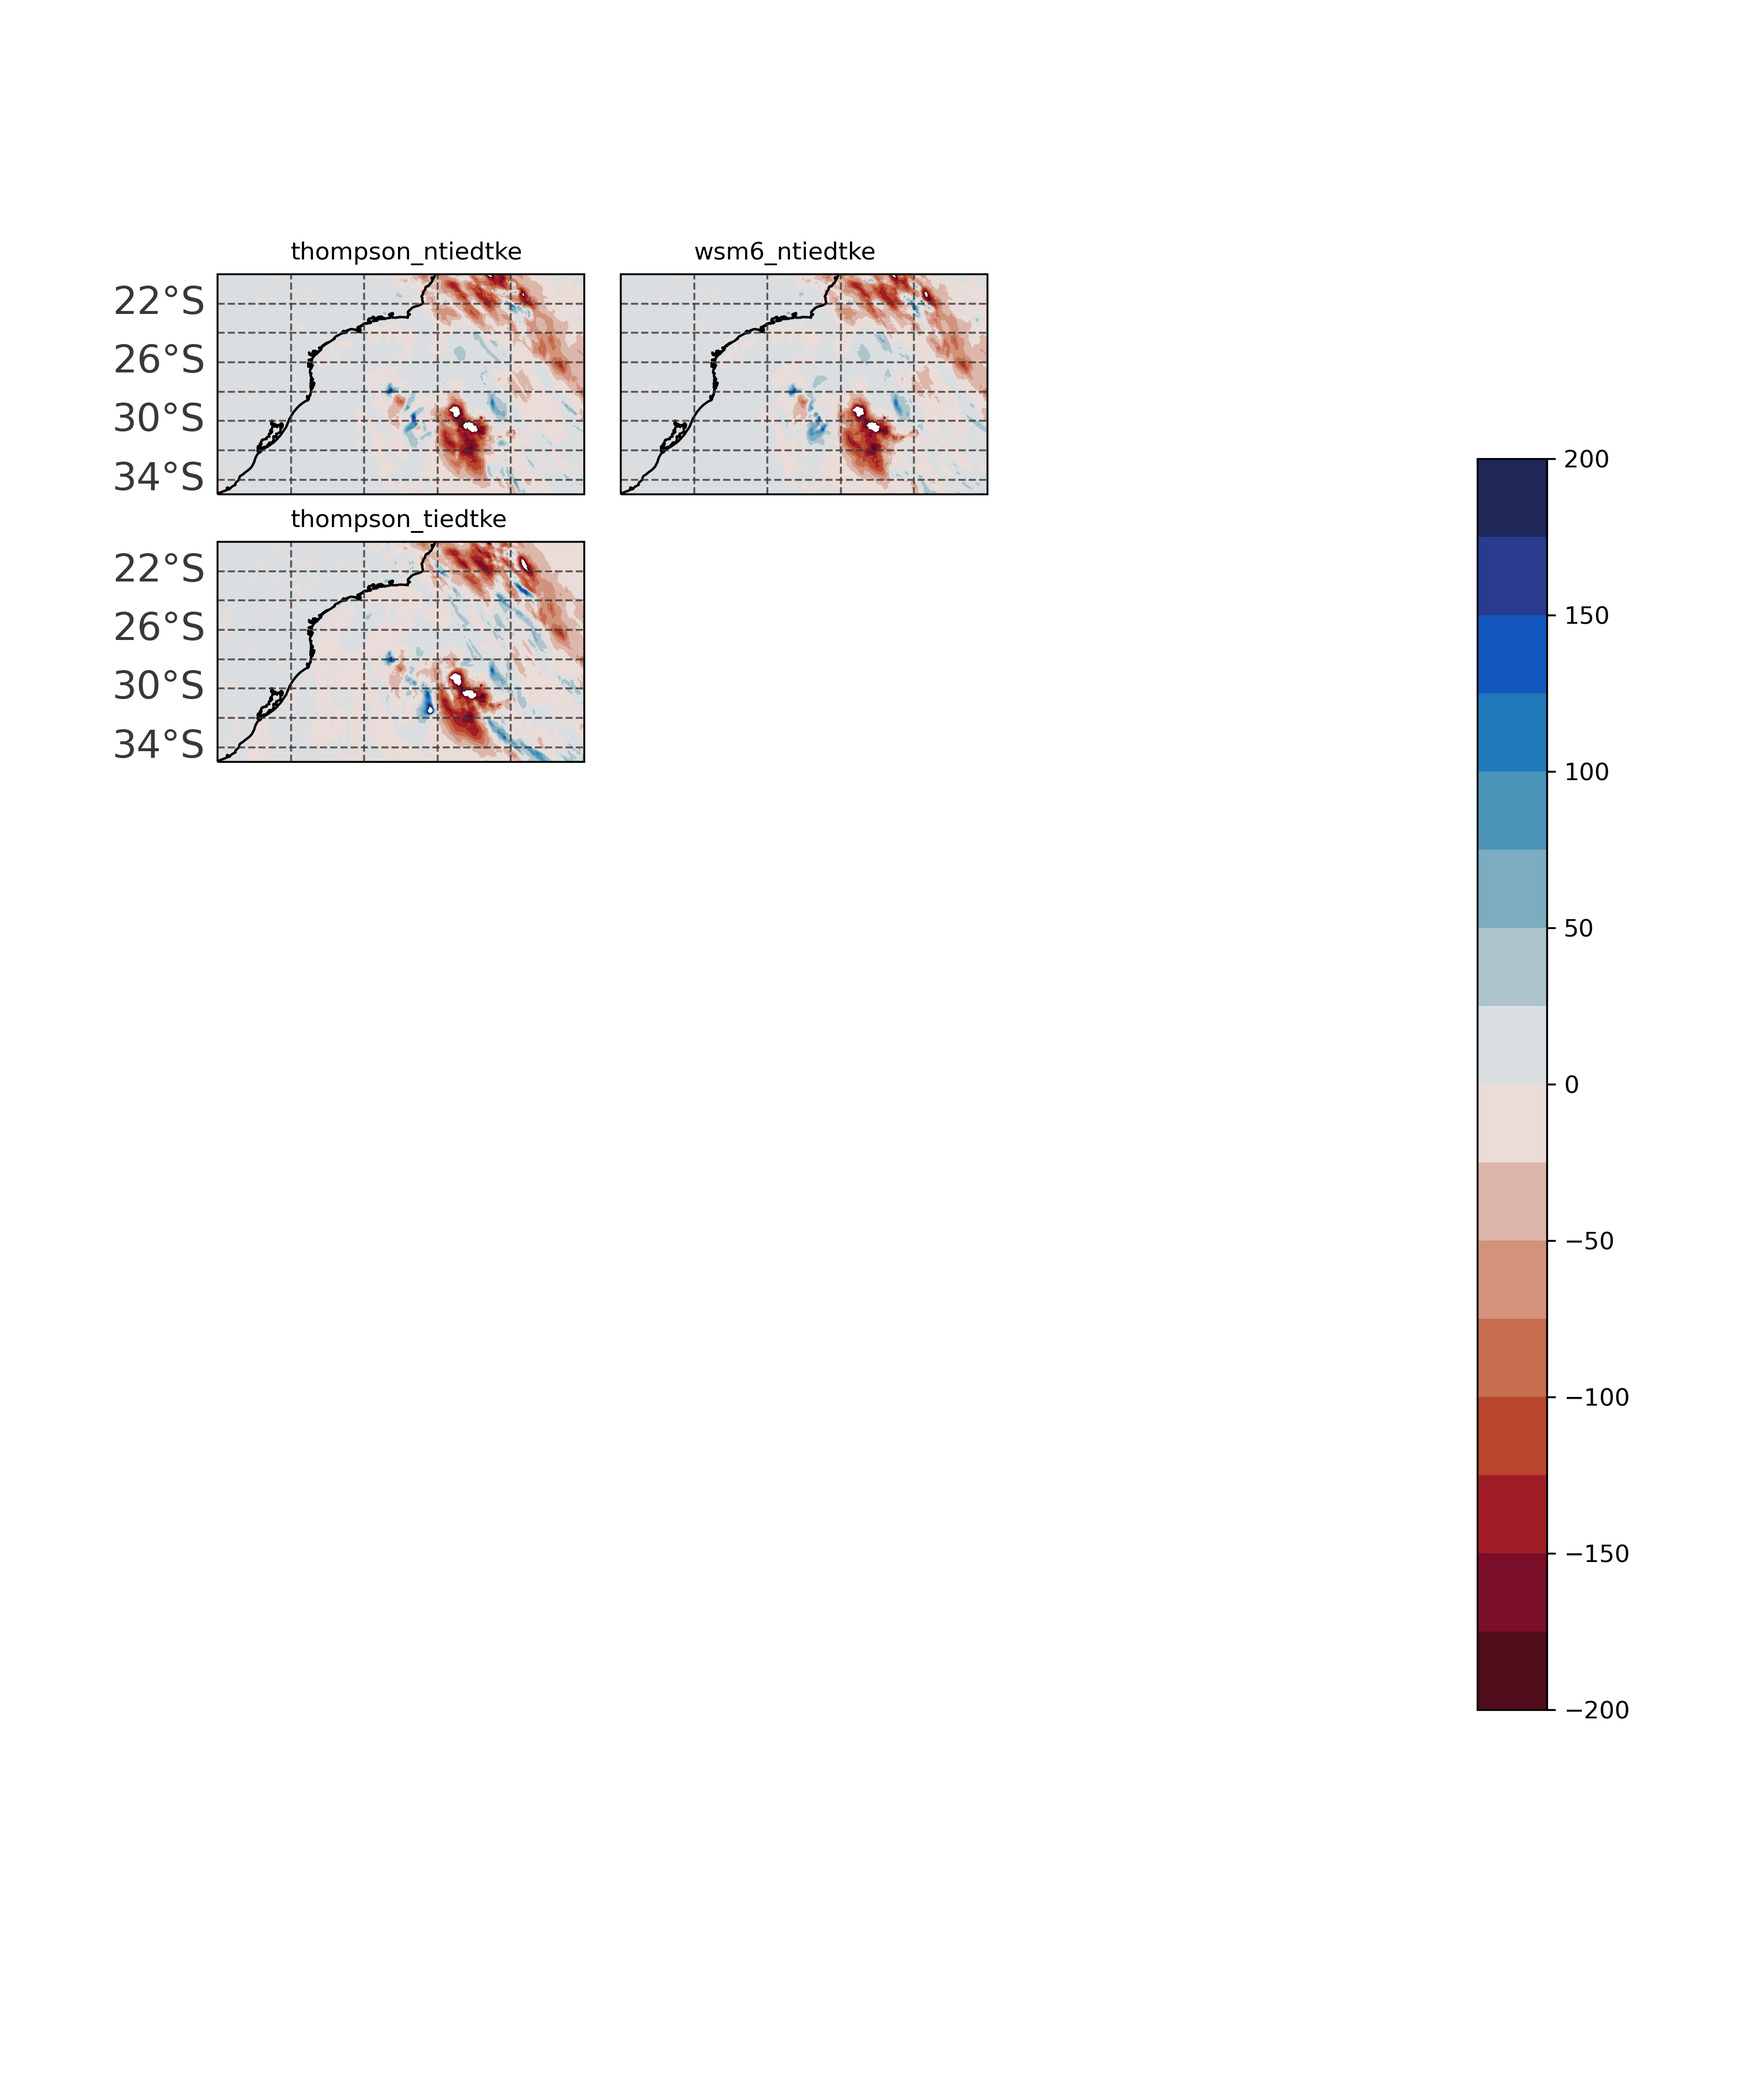
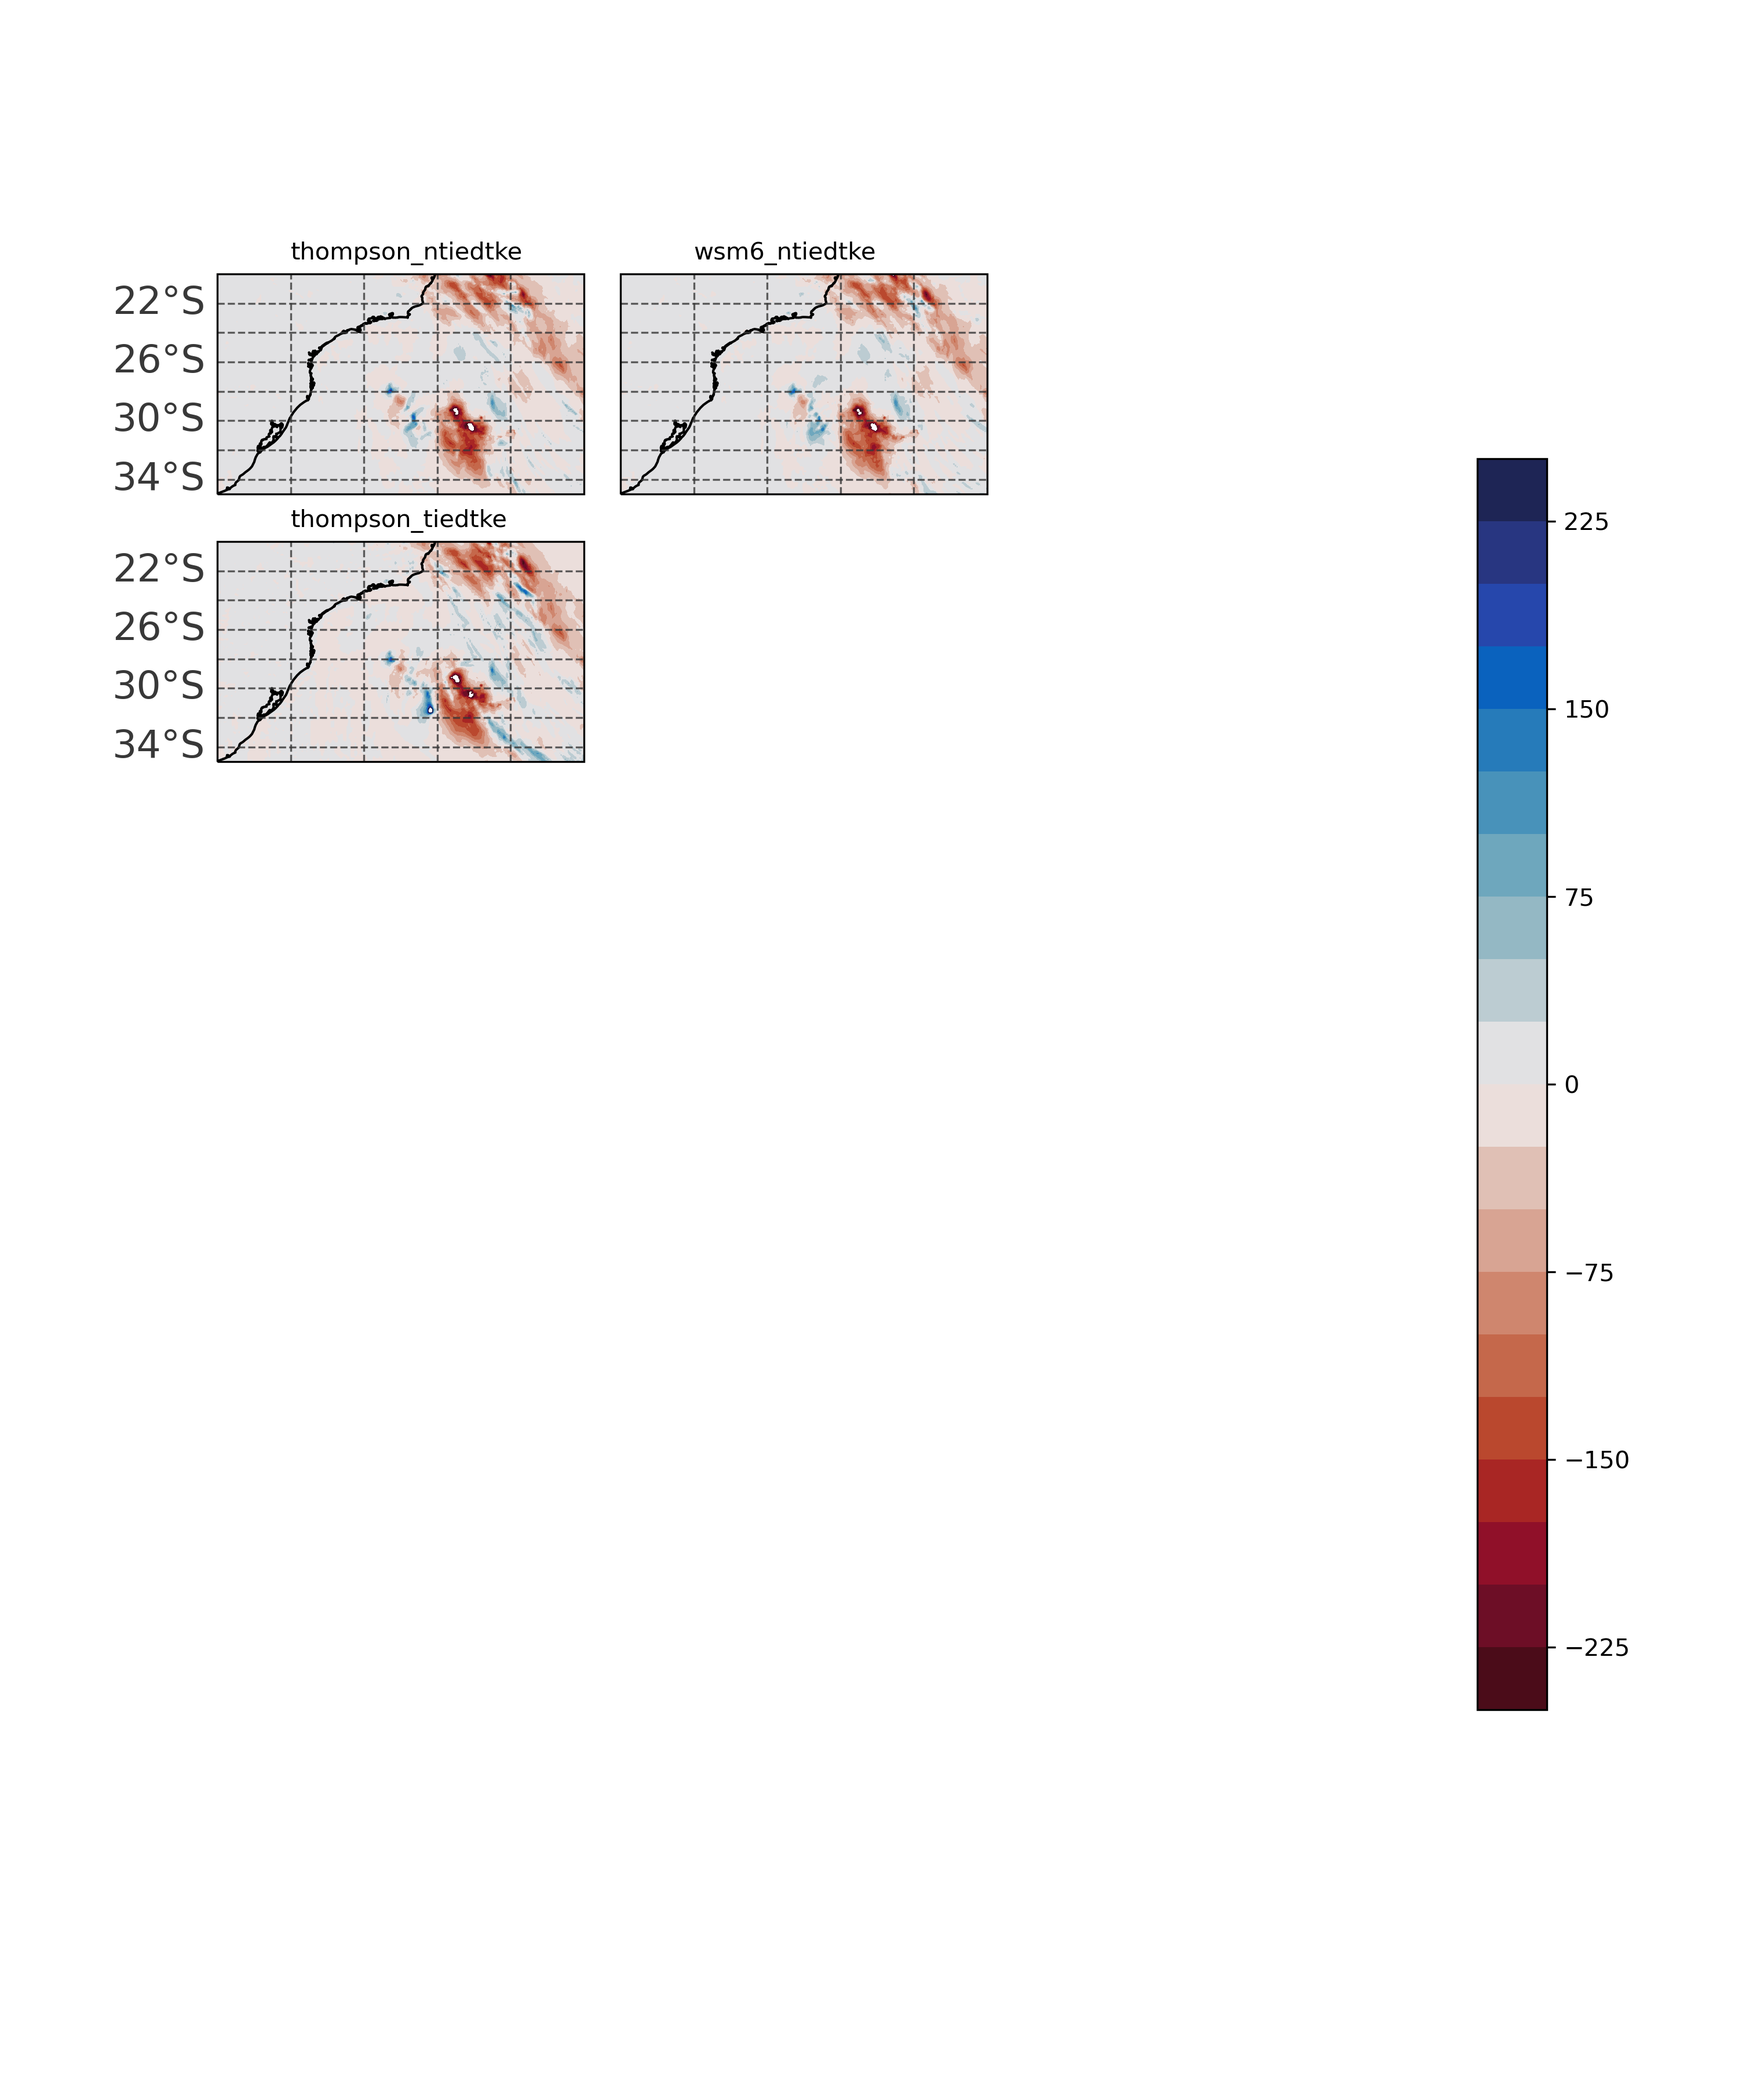
Update

diff --git a/figures_MPAS-worshop/precipitation.py b/figures_MPAS-worshop/precipitation.py
@@ -6,7 +6,7 @@
 #    By: Danilo <danilo.oceano@gmail.com>           +#+  +:+       +#+         #
 #                                                 +#+#+#+#+#+   +#+            #
 #    Created: 2023/06/20 11:48:29 by Danilo            #+#    #+#              #
-#    Updated: 2023/06/20 16:17:15 by Danilo           ###   ########.fr        #
+#    Updated: 2023/06/20 16:34:45 by Danilo           ###   ########.fr        #
 #                                                                              #
 # **************************************************************************** #
 
@@ -152,9 +152,14 @@ gs1 = gridspec.GridSpec(6, 3)
 gs2 = gridspec.GridSpec(6, 3)
 datacrs = ccrs.PlateCarree()
 
-prec_levels = np.arange(0,375,25)
-bias_levels = np.arange(-200,225,25)
-bias_norm = colors.TwoSlopeNorm(vmin=-200, vcenter=0, vmax=200)
+if (benchmarks == '48h_sst'):
+    prec_levels = np.arange(0,375,25)
+    bias_levels = np.arange(-200,225,25)
+    bias_norm = colors.TwoSlopeNorm(vmin=-200, vcenter=0, vmax=200)
+elif (benchmarks == '72h_sst'):
+    prec_levels = np.arange(0,475,25)
+    bias_levels = np.arange(-250,275,25)
+    bias_norm = colors.TwoSlopeNorm(vmin=-250, vcenter=0, vmax=250)
 
 i = 0
 for col in range(ncol):
